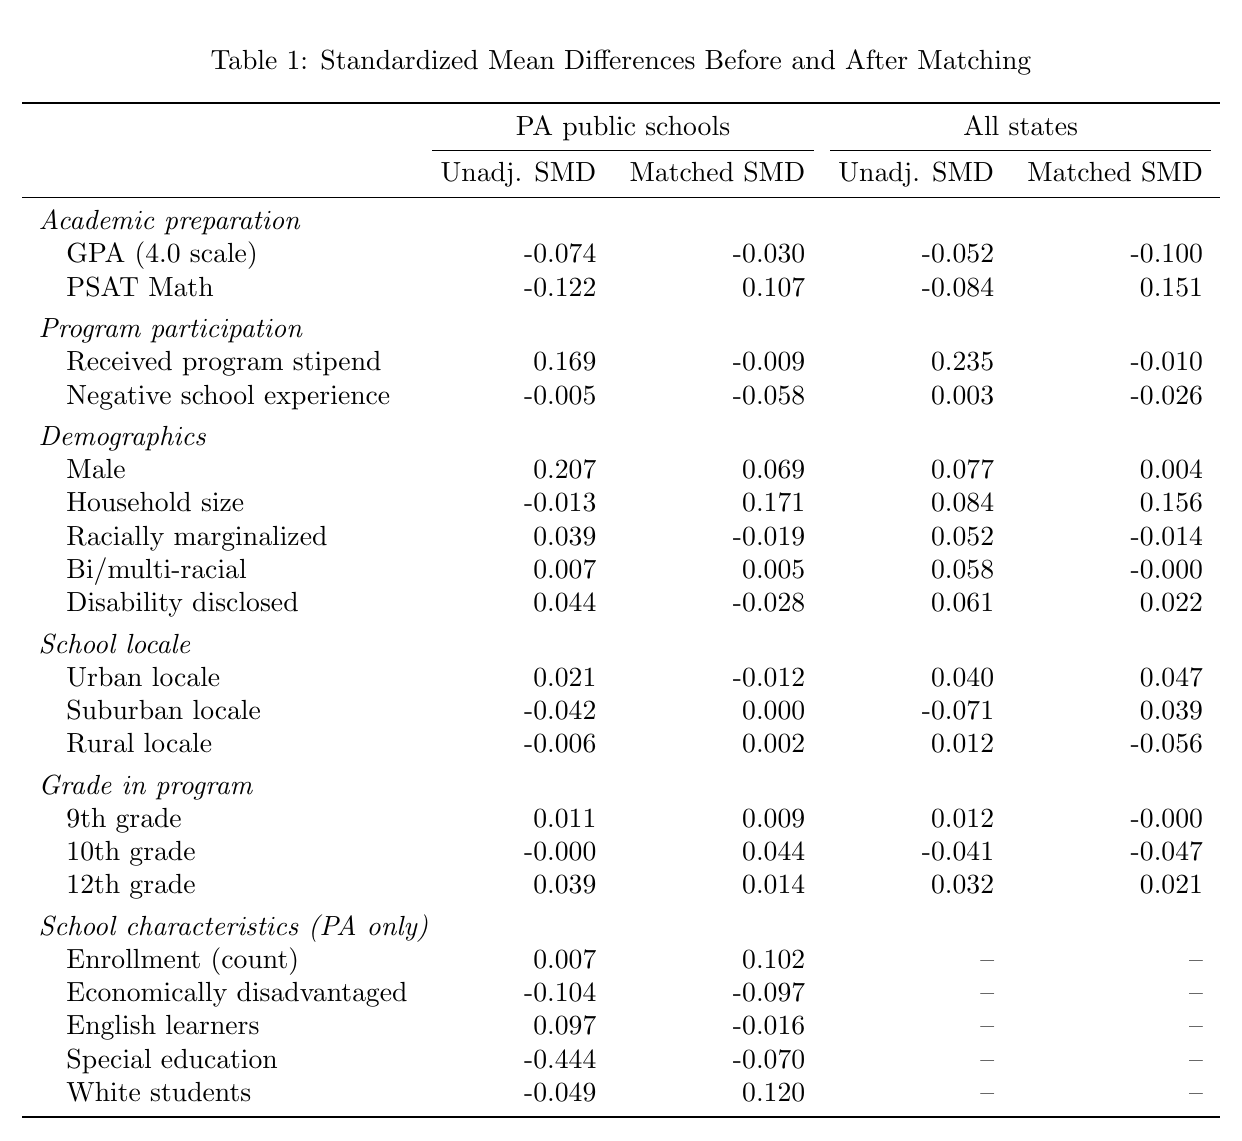
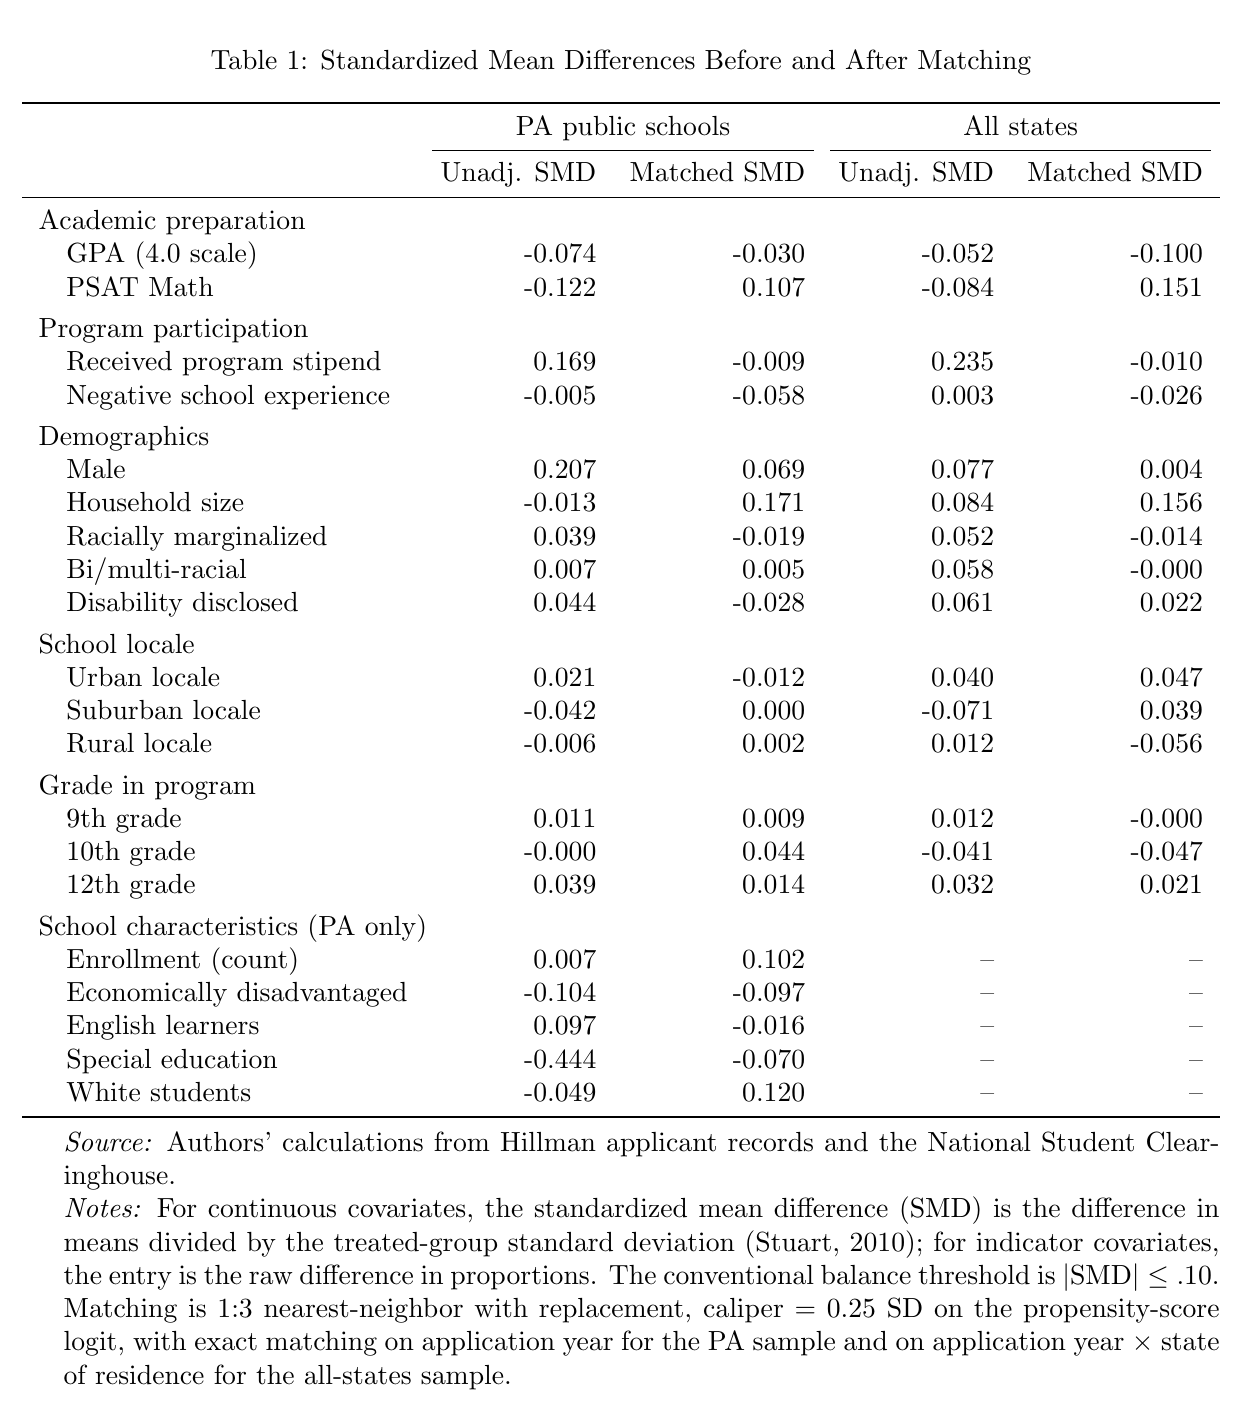
Adopt Page et al. (2026) table conventions
Style mirrors Lindsay's EdWorkingPaper #26-1409, with three carve-outs the
user kept: SDs in Table 1, SMDs in Table 2 (PSM convention), single-spec
ATTs in Table 3.

Adopted from Lindsay's tables:
  - Plain (non-italic) section/panel headers
  - Vertical SE format in Table 3: ATT on one line, (SE) on the next via
    kableExtra::linebreak() → \makecell{est \\ (SE)}
  - "~" for p<.10 (replaces dagger)
  - Source: line + Notes: paragraph below each table, written in detailed
    prose (model spec, SE type, panel definitions, citations)
  - Statistical-significance legend as a third footnote line in Table 3
  - "95% CI" column dropped from Table 3 (SE alone, per Lindsay's style)

Mechanics:
  - kableExtra::footnote() can be called only once per table (threeparttable
    can't nest), so all notes are concatenated into a single general= vector.
  - kableExtra::footnote() also strips one level of backslashes from
    general=, so any LaTeX command in a note must be doubled (\\\\textit
    in the R source produces \textit in the .tex output).
  - render_one() now loads amsmath (for \text{}) and makecell (for the
    vertical SEs) in the standalone wrapper.

Changed region(s): [[0.0306, 0.0307, 0.9791, 0.9816]]

diff --git a/output/tables/table3_impact.tex b/output/tables/table3_impact.tex
@@ -2,25 +2,31 @@
 \centering
 \caption{\label{tab:impact}Estimated Treatment Effects on College Enrollment, Institution Type, and Persistence}
 \centering
-\begin{tabular}[t]{lrrrrrrrr}
+\begin{threeparttable}
+\begin{tabular}[t]{lrrrrrr}
 \toprule
-\multicolumn{1}{c}{ } & \multicolumn{4}{c}{PA public schools} & \multicolumn{4}{c}{All states} \\
-\cmidrule(l{3pt}r{3pt}){2-5} \cmidrule(l{3pt}r{3pt}){6-9}
- & $n$ & Comparison & ATT ($SE$) & 95\% CI & $n$ & Comparison & ATT ($SE$) & 95\% CI\\
+\multicolumn{1}{c}{ } & \multicolumn{3}{c}{PA public schools} & \multicolumn{3}{c}{All states} \\
+\cmidrule(l{3pt}r{3pt}){2-4} \cmidrule(l{3pt}r{3pt}){5-7}
+ & $n$ & Comparison & ATT & $n$ & Comparison & ATT\\
 \midrule
 \addlinespace[0.3em]
-\multicolumn{9}{l}{\textit{Panel A. Enrollment}}\\
-\hspace{1em}Seamless enrollment & 197 & 0.880 & 0.007 (0.060) & {}[-0.111, 0.125] & 314 & 0.872 & 0.006 (0.041) & {}[-0.074, 0.086]\\
-\hspace{1em}Seamless STEM enrollment & 197 & 0.454 & 0.037 (0.092) & {}[-0.144, 0.217] & 314 & 0.463 & 0.084 (0.069) & {}[-0.051, 0.219]\\
+\multicolumn{7}{l}{Panel A. Enrollment}\\
+\hspace{1em}Seamless enrollment & 197 & 0.880 & \makecell[r]{0.007\\(0.060)} & 314 & 0.872 & \makecell[r]{0.006\\(0.041)}\\
+\hspace{1em}Seamless STEM enrollment & 197 & 0.454 & \makecell[r]{0.037\\(0.092)} & 314 & 0.463 & \makecell[r]{0.084\\(0.069)}\\
 \addlinespace[0.3em]
-\multicolumn{9}{l}{\textit{Panel B. Initial institution type}}\\
-\hspace{1em}Initial enrollment: any 4-year & 197 & 0.884 & 0.023 (0.055) & {}[-0.086, 0.131] & 314 & 0.883 & 0.012 (0.039) & {}[-0.063, 0.088]\\
-\hspace{1em}Initial enrollment: any 2-year & 197 & 0.005 & -0.001 (0.004) & {}[-0.008, 0.007] & 314 & 0.000 & 0.000 & --\\
+\multicolumn{7}{l}{Panel B. Initial institution type}\\
+\hspace{1em}Initial enrollment: any 4-year & 197 & 0.884 & \makecell[r]{0.023\\(0.055)} & 314 & 0.883 & \makecell[r]{0.012\\(0.039)}\\
+\hspace{1em}Initial enrollment: any 2-year & 197 & 0.005 & \makecell[r]{-0.001\\(0.004)} & 314 & 0.000 & \makecell[r]{0.000\\}\\
 \addlinespace[0.3em]
-\multicolumn{9}{l}{\textit{Panel C. Persistence (conditional on enrollment)}}\\
-\hspace{1em}Persisted to 2nd year (any inst.) & 177 & 0.948 & -0.006 (0.049) & {}[-0.101, 0.089] & 275 & 0.981 & -0.032 (0.024) & {}[-0.079, 0.015]\\
-\hspace{1em}Persisted in STEM to 2nd year & 177 & 0.229 & 0.160 (0.084)$^{\dagger}$ & {}[-0.005, 0.325] & 275 & 0.373 & 0.103 (0.072) & {}[-0.037, 0.244]\\
+\multicolumn{7}{l}{Panel C. Persistence (conditional on enrollment)}\\
+\hspace{1em}Persisted to 2nd year (any inst.) & 177 & 0.948 & \makecell[r]{-0.006\\(0.049)} & 275 & 0.981 & \makecell[r]{-0.032\\(0.024)}\\
+\hspace{1em}Persisted in STEM to 2nd year & 177 & 0.229 & \makecell[r]{0.160$^{\sim}$\\(0.084)} & 275 & 0.373 & \makecell[r]{0.103\\(0.072)}\\
 \bottomrule
-\multicolumn{9}{l}{\rule{0pt}{1em}$^{\dagger}$ $p<.10$; $^{*}$ $p<.05$; $^{**}$ $p<.01$; $^{***}$ $p<.001$.}\\
 \end{tabular}
+\begin{tablenotes}
+\item \textit{Source:} Authors' calculations from Hillman applicant records and the National Student Clearinghouse.
+\item \textit{Notes:} Average treatment effects on the treated (ATT) estimated via g-computation on a doubly-robust weighted linear probability model fit on the matched sample, with year fixed effects and HC3 robust standard errors (Hill \& Reiter, 2006). Estimates and standard errors are reported as proportions; comparison-group means are matched-sample proportions. Standard errors are shown in parentheses below each ATT. Panel C conditions on enrollment in any postsecondary institution. PA public schools is the primary analytic sample; all-states is reported as a robustness check.
+\item \textit{Statistical significance:} $^{\sim}$ $p<.10$;\quad $^{*}$ $p<.05$;\quad $^{**}$ $p<.01$;\quad $^{***}$ $p<.001$.
+\end{tablenotes}
+\end{threeparttable}
 \end{table}

diff --git a/output/tables/table1_descriptives.tex b/output/tables/table1_descriptives.tex
@@ -2,6 +2,7 @@
 \centering
 \caption{\label{tab:descriptives}Sample Descriptive Statistics for the Matched Treated and Comparison Groups}
 \centering
+\begin{threeparttable}
 \begin{tabular}[t]{lrrrr}
 \toprule
 \multicolumn{1}{c}{ } & \multicolumn{2}{c}{PA public schools} & \multicolumn{2}{c}{All states} \\
@@ -9,32 +10,32 @@
  & Treated ($n=72$) & Comparison ($n=125$) & Treated ($n=121$) & Comparison ($n=193$)\\
 \midrule
 \addlinespace[0.3em]
-\multicolumn{5}{l}{\textit{Academic preparation}}\\
+\multicolumn{5}{l}{Academic preparation}\\
 \hspace{1em}GPA (4.0 scale) & 3.66 (0.25) & 3.67 (0.29) & 3.69 (0.25) & 3.72 (0.31)\\
 \hspace{1em}PSAT Math & 692.46 (73.56) & 687.35 (72.63) & 697.47 (67.87) & 697.74 (70.11)\\
 \addlinespace[0.3em]
-\multicolumn{5}{l}{\textit{Program participation}}\\
+\multicolumn{5}{l}{Program participation}\\
 \hspace{1em}Received program stipend & 0.222 (0.416) & 0.231 (0.422) & 0.306 (0.461) & 0.315 (0.465)\\
 \hspace{1em}Negative school experience & 0.044 (0.205) & 0.103 (0.304) & 0.064 (0.244) & 0.094 (0.292)\\
 \addlinespace[0.3em]
-\multicolumn{5}{l}{\textit{Demographics}}\\
+\multicolumn{5}{l}{Demographics}\\
 \hspace{1em}Male & 0.528 (0.499) & 0.458 (0.498) & 0.479 (0.500) & 0.475 (0.499)\\
 \hspace{1em}Household size & 4.22 (1.06) & 4.22 (1.07) & 4.18 (1.17) & 4.16 (1.07)\\
 \hspace{1em}Racially marginalized & 0.097 (0.296) & 0.116 (0.320) & 0.140 (0.348) & 0.154 (0.361)\\
 \hspace{1em}Bi/multi-racial & 0.042 (0.200) & 0.037 (0.189) & 0.025 (0.155) & 0.025 (0.155)\\
 \hspace{1em}Disability disclosed & 0.029 (0.167) & 0.058 (0.233) & 0.043 (0.203) & 0.020 (0.141)\\
 \addlinespace[0.3em]
-\multicolumn{5}{l}{\textit{School locale}}\\
+\multicolumn{5}{l}{School locale}\\
 \hspace{1em}Urban locale & 0.159 (0.366) & 0.170 (0.376) & 0.183 (0.386) & 0.138 (0.344)\\
 \hspace{1em}Suburban locale & 0.768 (0.422) & 0.761 (0.427) & 0.730 (0.444) & 0.712 (0.453)\\
 \hspace{1em}Rural locale & 0.072 (0.259) & 0.069 (0.254) & 0.087 (0.282) & 0.151 (0.358)\\
 \addlinespace[0.3em]
-\multicolumn{5}{l}{\textit{Grade in program}}\\
+\multicolumn{5}{l}{Grade in program}\\
 \hspace{1em}9th grade & 0.028 (0.164) & 0.019 (0.135) & 0.017 (0.127) & 0.017 (0.127)\\
 \hspace{1em}10th grade & 0.306 (0.461) & 0.262 (0.439) & 0.281 (0.449) & 0.328 (0.469)\\
 \hspace{1em}12th grade & 0.083 (0.276) & 0.069 (0.254) & 0.066 (0.248) & 0.045 (0.208)\\
 \addlinespace[0.3em]
-\multicolumn{5}{l}{\textit{School characteristics (PA only)}}\\
+\multicolumn{5}{l}{School characteristics (PA only)}\\
 \hspace{1em}Enrollment (count) & 1571.69 (740.37) & 1493.84 (712.58) & -- & --\\
 \hspace{1em}Economically disadvantaged & 0.23 (0.14) & 0.24 (0.15) & -- & --\\
 \hspace{1em}English learners & 0.03 (0.03) & 0.03 (0.03) & -- & --\\
@@ -42,4 +43,9 @@
 \hspace{1em}White students & 0.71 (0.17) & 0.69 (0.17) & -- & --\\
 \bottomrule
 \end{tabular}
+\begin{tablenotes}
+\item \textit{Source:} Authors' calculations from Hillman applicant records and the National Student Clearinghouse.
+\item \textit{Notes:} Cell entries are weighted means and standard deviations (in parentheses); for indicator covariates, the standard deviation is the binomial $\sqrt{p(1-p)}$. Weights are MatchIt subclass weights from 1:3 nearest-neighbor propensity-score matching with replacement, caliper $=$ 0.25 SD on the propensity-score logit. The propensity-score model uses paired zero-imputation with missing indicators for continuous covariates; descriptive means and SDs are computed on observed values only. School-level covariates are available only for PA public-school students. 11th grade is the modal/reference grade in the propensity-score model.
+\end{tablenotes}
+\end{threeparttable}
 \end{table}

diff --git a/output/tables/table2_balance.tex b/output/tables/table2_balance.tex
@@ -2,6 +2,7 @@
 \centering
 \caption{\label{tab:balance}Standardized Mean Differences Before and After Matching}
 \centering
+\begin{threeparttable}
 \begin{tabular}[t]{lrrrr}
 \toprule
 \multicolumn{1}{c}{ } & \multicolumn{2}{c}{PA public schools} & \multicolumn{2}{c}{All states} \\
@@ -9,32 +10,32 @@
  & Unadj. SMD & Matched SMD & Unadj. SMD & Matched SMD\\
 \midrule
 \addlinespace[0.3em]
-\multicolumn{5}{l}{\textit{Academic preparation}}\\
+\multicolumn{5}{l}{Academic preparation}\\
 \hspace{1em}GPA (4.0 scale) & -0.074 & -0.030 & -0.052 & -0.100\\
 \hspace{1em}PSAT Math & -0.122 & 0.107 & -0.084 & 0.151\\
 \addlinespace[0.3em]
-\multicolumn{5}{l}{\textit{Program participation}}\\
+\multicolumn{5}{l}{Program participation}\\
 \hspace{1em}Received program stipend & 0.169 & -0.009 & 0.235 & -0.010\\
 \hspace{1em}Negative school experience & -0.005 & -0.058 & 0.003 & -0.026\\
 \addlinespace[0.3em]
-\multicolumn{5}{l}{\textit{Demographics}}\\
+\multicolumn{5}{l}{Demographics}\\
 \hspace{1em}Male & 0.207 & 0.069 & 0.077 & 0.004\\
 \hspace{1em}Household size & -0.013 & 0.171 & 0.084 & 0.156\\
 \hspace{1em}Racially marginalized & 0.039 & -0.019 & 0.052 & -0.014\\
 \hspace{1em}Bi/multi-racial & 0.007 & 0.005 & 0.058 & -0.000\\
 \hspace{1em}Disability disclosed & 0.044 & -0.028 & 0.061 & 0.022\\
 \addlinespace[0.3em]
-\multicolumn{5}{l}{\textit{School locale}}\\
+\multicolumn{5}{l}{School locale}\\
 \hspace{1em}Urban locale & 0.021 & -0.012 & 0.040 & 0.047\\
 \hspace{1em}Suburban locale & -0.042 & 0.000 & -0.071 & 0.039\\
 \hspace{1em}Rural locale & -0.006 & 0.002 & 0.012 & -0.056\\
 \addlinespace[0.3em]
-\multicolumn{5}{l}{\textit{Grade in program}}\\
+\multicolumn{5}{l}{Grade in program}\\
 \hspace{1em}9th grade & 0.011 & 0.009 & 0.012 & -0.000\\
 \hspace{1em}10th grade & -0.000 & 0.044 & -0.041 & -0.047\\
 \hspace{1em}12th grade & 0.039 & 0.014 & 0.032 & 0.021\\
 \addlinespace[0.3em]
-\multicolumn{5}{l}{\textit{School characteristics (PA only)}}\\
+\multicolumn{5}{l}{School characteristics (PA only)}\\
 \hspace{1em}Enrollment (count) & 0.007 & 0.102 & -- & --\\
 \hspace{1em}Economically disadvantaged & -0.104 & -0.097 & -- & --\\
 \hspace{1em}English learners & 0.097 & -0.016 & -- & --\\
@@ -42,4 +43,9 @@
 \hspace{1em}White students & -0.049 & 0.120 & -- & --\\
 \bottomrule
 \end{tabular}
+\begin{tablenotes}
+\item \textit{Source:} Authors' calculations from Hillman applicant records and the National Student Clearinghouse.
+\item \textit{Notes:} For continuous covariates, the standardized mean difference (SMD) is the difference in means divided by the treated-group standard deviation (Stuart, 2010); for indicator covariates, the entry is the raw difference in proportions. The conventional balance threshold is $|\text{SMD}| \le .10$. Matching is 1:3 nearest-neighbor with replacement, caliper $=$ 0.25 SD on the propensity-score logit, with exact matching on application year for the PA sample and on application year $\times$ state of residence for the all-states sample.
+\end{tablenotes}
+\end{threeparttable}
 \end{table}
